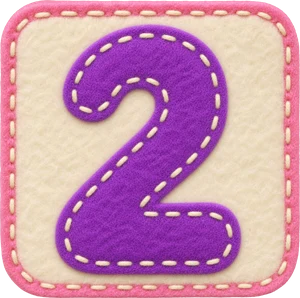
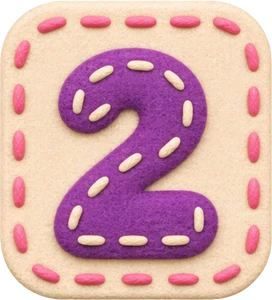
Jeffrey's corner: remake number cards 1-5 as one matching ChatGPT set
Claude-Session: https://claude.ai/code/session_01QQ5WvGYR7KDGwwayuZTtQr

diff --git a/css/game.css b/css/game.css
@@ -107,7 +107,7 @@ button img { width: 100%; height: 100%; object-fit: contain; }
 .jf-pick img { object-fit: contain; }
 .jf-pick:active { transform: scale(.92); }
 .jf-target { left: 588px; top: 30px; width: 190px; height: 190px; z-index: 5; filter: drop-shadow(0 8px 6px rgba(70,40,20,.25)); }
-.jf-target img { width: 100%; height: 100%; }
+.jf-target img { width: 100%; height: 100%; object-fit: contain; }
 .jf-player { width: 150px; height: 200px; z-index: 8; touch-action: none; cursor: grab;
   filter: drop-shadow(0 8px 6px rgba(70,40,20,.25));
   transition: left .35s cubic-bezier(.3,1.4,.6,1), top .35s cubic-bezier(.3,1.4,.6,1); }
